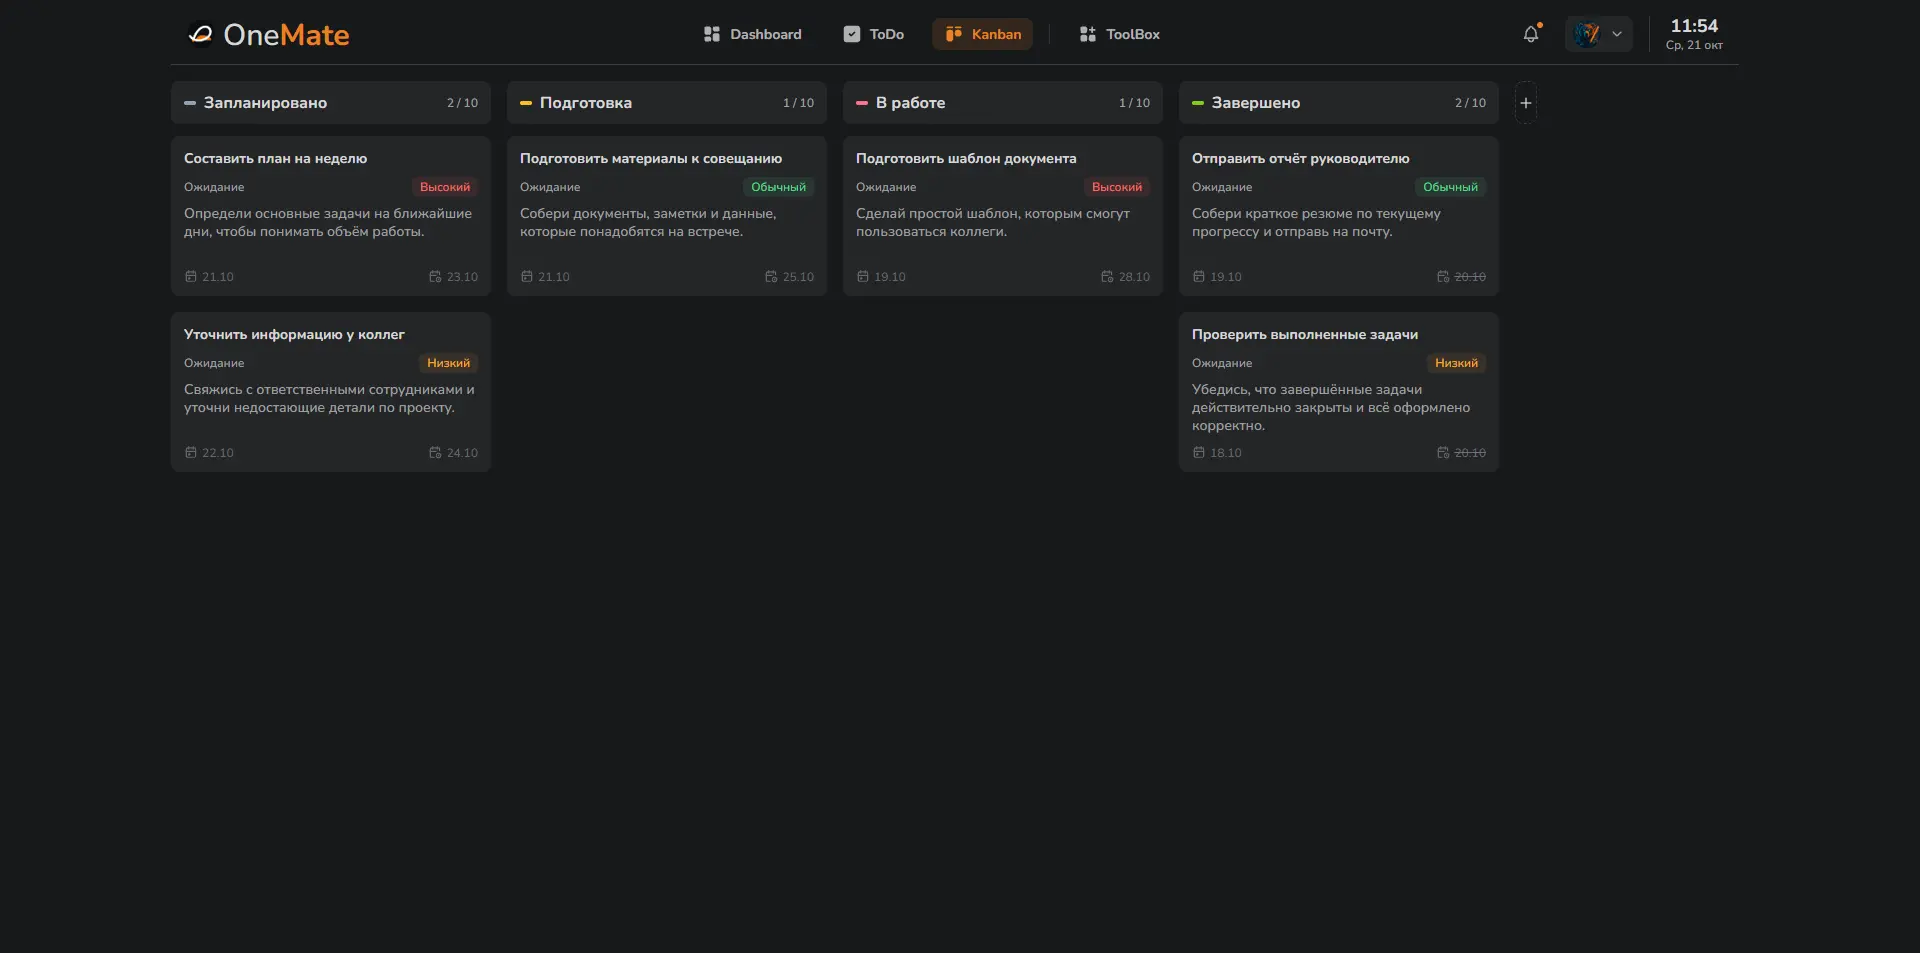
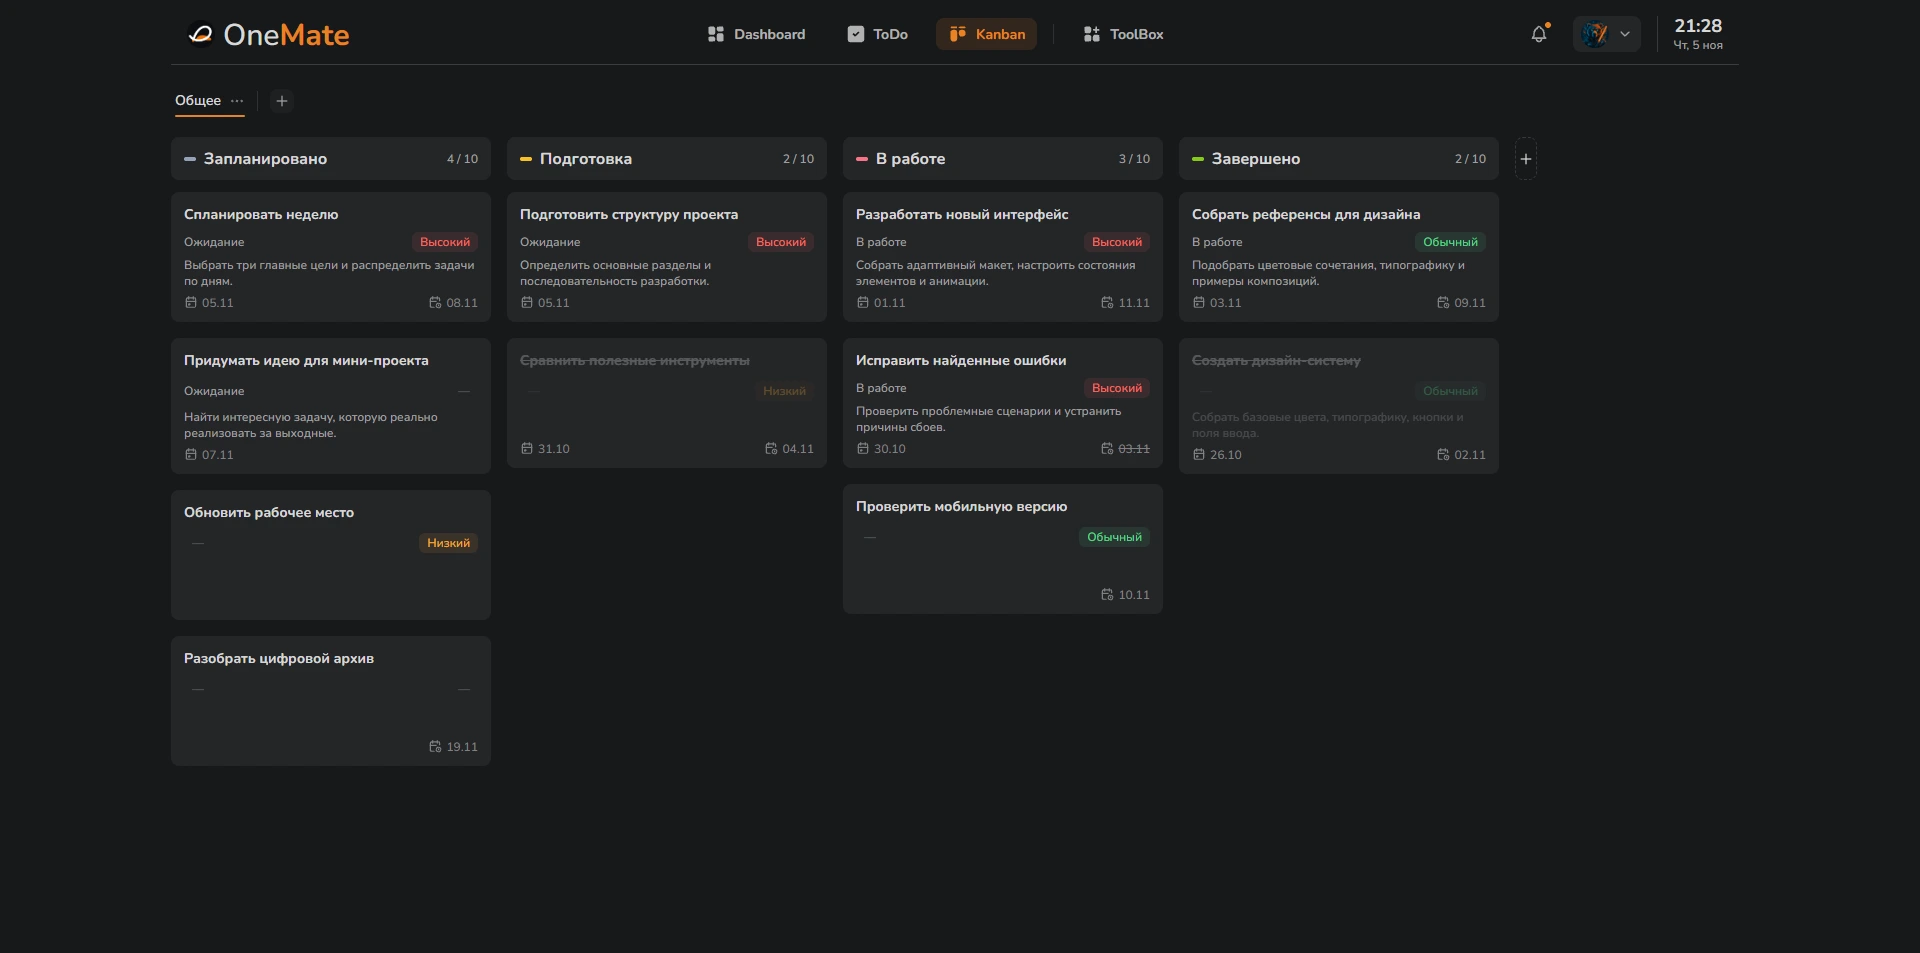
chore: update readme, app version and docs

diff --git a/client/src/widgets/cloud/model/tip.tsx b/client/src/widgets/cloud/model/tip.tsx
@@ -3,14 +3,14 @@ export const CLOUD_TIP = (
 		<p>В этом виджете можно:</p>
 		<ul className="list-disc pl-4">
 			<li>Загружать, скачивать и управлять файлами</li>
-			<li>Просматривать изображения, PDF и текстовые файлы</li>
+			<li>Просматривать изображения, PDF и TXT файлы</li>
+			<li>Искать файлы по названию</li>
 			<li>Делиться файлами по ссылке или QR-коду</li>
-			<li>Хранить текст, ссылки и заметки в облачном буфере</li>
-			<li>Создавать TXT-файлы из содержимого буфера</li>
+			<li>Хранить текст и ссылки в облачном буфере</li>
+			<li>Создавать TXT-файлы из буфера</li>
 		</ul>
 		<p className="text-(--text-disabled)">
-			Файлы можно перетаскивать, а изображения и скриншоты – вставлять через Ctrl+V. Текст сохраняется
-			автоматически, а все данные доступны на других устройствах.
+			Перетаскивайте файлы для загрузки или вставляйте изображения через Ctrl+V.
 		</p>
 	</div>
 );

diff --git a/client/src/widgets/network/model/tip.tsx b/client/src/widgets/network/model/tip.tsx
@@ -3,11 +3,11 @@ export const NETWORK_TIP = (
 		<p>В этом виджете можно:</p>
 		<ul className="list-disc pl-4">
 			<li>Отслеживать доступность сайтов и серверов</li>
-			<li>Следить за временем отклика и историей проверок</li>
 			<li>Проверять сайты, TCP-порты и SSL-сертификаты</li>
-			<li>Получать уведомления о сбоях и восстановлении сервисов</li>
-			<li>Изменять порядок сервисов</li>
+			<li>Смотреть время отклика и историю проверок</li>
+			<li>Получать уведомления о сбоях и восстановлении</li>
+			<li>Менять порядок сервисов</li>
 		</ul>
-		<p className="text-(--text-disabled)">Мониторинг автоматически проверяет сервисы каждые 15 минут.</p>
+		<p className="text-(--text-disabled)">Автоматическая проверка сервисов выполняется каждые 15 минут.</p>
 	</div>
 );

diff --git a/client/src/widgets/todo/model/tip.tsx b/client/src/widgets/todo/model/tip.tsx
@@ -2,14 +2,13 @@ export const TODO_TIP = (
 	<div className="space-y-2">
 		<p>В этом виджете можно:</p>
 		<ul className="list-disc pl-4">
-			<li>Переключаться между списками разных холстов</li>
+			<li>Выбирать списки с разных холстов</li>
 			<li>Добавлять, редактировать и удалять пункты</li>
 			<li>Отмечать выполненные дела</li>
 			<li>Отслеживать прогресс выполнения списка</li>
 		</ul>
 		<p className="text-(--text-disabled)">
-			Изменения сохраняются автоматически и доступны на других устройствах. Создавать и настраивать списки можно
-			на странице ToDo.
+			Изменения сохраняются автоматически. Настраивать холсты и списки можно на странице ToDo.
 		</p>
 	</div>
 );

diff --git a/client/src/widgets/notes/model/tip.tsx b/client/src/widgets/notes/model/tip.tsx
@@ -3,9 +3,13 @@ export const NOTES_TIP = (
 		<p>В этом виджете можно:</p>
 		<ul className="list-disc pl-4">
 			<li>Создавать и редактировать заметки</li>
+			<li>Выбирать цвет заметок</li>
+			<li>Искать заметки по тексту</li>
 			<li>Копировать и удалять заметки</li>
-			<li>Изменять порядок заметок перетаскиванием</li>
+			<li>Менять порядок перетаскиванием</li>
 		</ul>
-		<p className="text-(--text-disabled)">Перетащите заметку за значок с точками, чтобы изменить её положение.</p>
+		<p className="text-(--text-disabled)">
+			Поиск открывается кнопкой с лупой. Во время поиска перетаскивание отключено.
+		</p>
 	</div>
 );

diff --git a/client/src/widgets/calculator/model/tip.tsx b/client/src/widgets/calculator/model/tip.tsx
@@ -2,10 +2,10 @@ export const CALCULATOR_TIP = (
 	<div className="space-y-2">
 		<p>В этом виджете можно:</p>
 		<ul className="list-disc pl-4">
-			<li>Выполнять основные вычисления</li>
-			<li>Просматривать историю вычислений</li>
+			<li>Выполнять арифметические вычисления</li>
+			<li>Просматривать историю результатов</li>
 			<li>Очищать журнал вычислений</li>
 		</ul>
-		<p className="text-(--text-disabled)">Выполненные вычисления сохраняются в журнале справа.</p>
+		<p className="text-(--text-disabled)">История вычислений отображается справа от калькулятора.</p>
 	</div>
 );

diff --git a/client/src/features/toast/ui/Toast.tsx b/client/src/features/toast/ui/Toast.tsx
@@ -31,7 +31,7 @@ export const Toast = ({ toastId, type, message, options }: ToastProps) => {
 
 	return (
 		<div className={options?.className} style={options?.style} onClick={() => toast.dismiss(toastId)}>
-			<div className="core-surface flex w-fit min-w-30 items-center gap-2.5 bg-(--bg-secondary) px-3 py-2.5 shadow-[0_12px_32px_rgba(0,0,0,0.28)] transition-colors select-none not-md:w-full not-xl:mt-px hover:bg-(--bg-tertiary) md:max-w-60">
+			<div className="core-surface flex w-fit min-w-30 items-center gap-2.5 bg-(--bg-secondary) px-3 py-2.5 shadow-[0_12px_32px_rgba(0,0,0,0.28)] transition-colors select-none not-md:w-full not-xl:mt-px hover:bg-(--bg-tertiary) md:max-w-70">
 				<div className={cn('flex size-7 shrink-0 items-center justify-center rounded-md', toastStyles[type])}>
 					<Icon className="size-4.5" />
 				</div>

diff --git a/client/src/widgets/weather/model/tip.tsx b/client/src/widgets/weather/model/tip.tsx
@@ -2,8 +2,8 @@ export const WEATHER_TIP = (
 	<div className="space-y-2">
 		<p>В этом виджете можно:</p>
 		<ul className="list-disc pl-4">
-			<li>Смотреть текущую погоду и прогноз</li>
-			<li>Выбирать город или определять его автоматически</li>
+			<li>Смотреть текущую погоду и прогноз до 5 дней</li>
+			<li>Выбирать город и определять его автоматически</li>
 			<li>Узнавать скорость и направление ветра</li>
 		</ul>
 		<p className="text-(--text-disabled)">Наведите курсор на данные о ветре, чтобы увидеть его направление.</p>

diff --git a/client/src/widgets/currency/model/tip.tsx b/client/src/widgets/currency/model/tip.tsx
@@ -4,8 +4,8 @@ export const CURRENCY_TIP = (
 		<ul className="list-disc pl-4">
 			<li>Конвертировать суммы между валютами</li>
 			<li>Менять валюты местами</li>
-			<li>Копировать курс и результат конвертации</li>
+			<li>Копировать курс и результат</li>
 		</ul>
-		<p className="text-(--text-disabled)">Нажмите на курс или результат, чтобы скопировать его.</p>
+		<p className="text-(--text-disabled)">Нажмите на курс или результат, чтобы скопировать значение.</p>
 	</div>
 );

diff --git a/client/src/widgets/calendar/model/tip.tsx b/client/src/widgets/calendar/model/tip.tsx
@@ -3,7 +3,7 @@ export const CALENDAR_TIP = (
 		<p>В этом виджете можно:</p>
 		<ul className="list-disc pl-4">
 			<li>Выбирать период и подсчитывать количество дней</li>
-			<li>Учитывать или исключать выходные из расчёта</li>
+			<li>Учитывать или исключать выходные</li>
 			<li>Копировать выбранный период</li>
 		</ul>
 		<p className="text-(--text-disabled)">Сначала выберите начальную дату, затем конечную.</p>

diff --git a/client/src/entities/user-profile/model/defaults.ts b/client/src/entities/user-profile/model/defaults.ts
@@ -5,7 +5,7 @@ import type { UserProfile } from '.';
 const clone = <T>(v: T): T =>
 	typeof structuredClone === 'function' ? structuredClone(v) : JSON.parse(JSON.stringify(v));
 
-const DEFAULT_WIDGETS = ['cloud', 'calendar', 'notes', 'currency', 'weather', 'translator'] as const;
+const DEFAULT_WIDGETS = ['cloud', 'calendar', 'notes', 'currency', 'weather', 'todo'] as const;
 export const createDefaultWidgets = (): WidgetId[] => [...DEFAULT_WIDGETS];
 
 const DEFAULT_SLOTS = ['calendar', 'weather', 'currency', 'notes'] as const;

diff --git a/README.md b/README.md
@@ -5,7 +5,7 @@
 [![Vite](https://img.shields.io/badge/Vite-8.x-646CFF)](#технологический-стек)
 [![Laravel](https://img.shields.io/badge/Laravel-13-FF2D20)](#технологический-стек)
 [![PostgreSQL](https://img.shields.io/badge/PostgreSQL-16-4169E1)](#технологический-стек)
-[![Version](https://img.shields.io/badge/version-2.2.2-e98224)](#)
+[![Version](https://img.shields.io/badge/version-2.2.5-e98224)](#)
 
 <div align="center">
 
@@ -22,19 +22,20 @@
 </p>
 
 <div align="center">
-  <img src="./docs/screenshots/dashboard.webp" alt="Dashboard" width="800">
+  <img src="./docs/screenshots/home.webp" alt="Home" width="800">
 </div>
 
 ## Модули
 
 ### Dashboard
 
-**Настраиваемый рабочий стол** с шестью виджетами на выбор. Поддерживает добавление инструментов из каталога и изменение их расположения с помощью drag & drop.
+**Настраиваемый рабочий стол** с возможностью размещения до шести виджетов одновременно. Поддерживает добавление инструментов из каталога и изменение их расположения с помощью drag & drop.
 
 Доступные виджеты:
 
 - **Облако** – хранение и предпросмотр файлов, публичные ссылки и облачный буфер обмена;
-- **Заметки** – создание, редактирование и сортировка заметок;
+- **Заметки** – создание, редактирование, поиск и сортировка заметок;
+- **Задачи** – управление пунктами списков с разных холстов и отслеживание прогресса;
 - **Календарь** – выбор периодов, подсчёт дней и копирование результатов;
 - **Калькулятор** – арифметические операции и история вычислений;
 - **Конвертер валют** – конвертация сумм и копирование курсов и результатов;
@@ -44,21 +45,22 @@
 
 ### Kanban
 
-**Интерактивные доски** для планирования и управления задачами, позволяющие организовывать рабочие процессы с помощью настраиваемых колонок, приоритетов и сроков выполнения.
+**Интерактивные доски** для планирования и управления задачами с настраиваемыми колонками, приоритетами и сроками выполнения.
 
-- создание и управление несколькими досками, настройка задач и колонок;
-- сортировка и перемещение задач и колонок с помощью drag & drop;
+- создание и управление несколькими досками;
+- добавление и настройка задач и колонок;
+- перемещение задач и колонок с помощью drag & drop;
 - управление приоритетами, статусами и сроками выполнения;
-- уведомления о просроченных задачах.
+- уведомления о предстоящих и просроченных задачах.
 
 ### ToDo
 
-**Интерактивная сетка списков** для организации повседневных дел и детализации задач с возможностью размещения списков на отдельных холстах.
+**Интерактивная сетка списков** для организации повседневных дел и детализации задач на отдельных холстах.
 
-- создание и настройка списков с возможностью выбора цвета;
-- организация списков на нескольких холстах с настраиваемым расположением;
-- сортировка и перенос списков и пунктов с помощью drag & drop;
-- добавление, редактирование и отметка выполненных пунктов.
+- создание и управление несколькими холстами;
+- добавление, редактирование и настройка списков с выбором цвета;
+- размещение списков в сетке и перенос пунктов с помощью drag & drop;
+- отметка выполненных пунктов и отслеживание прогресса.
 
 ## Технологический стек
 
@@ -97,9 +99,9 @@
 <details>
 <summary>Показать</summary>
 <p align="center">
-  <img src="./docs/screenshots/home.webp" alt="Главная страница" width="800">
+  <img src="./docs/screenshots/dashboard.webp" alt="Dashboard" width="800">
+  <img src="./docs/screenshots/todo.webp" alt="ToDo" width="800">
   <img src="./docs/screenshots/kanban.webp" alt="Kanban" width="800">
-  <img src="./docs/screenshots/settings.webp" alt="Настройки" width="800">
 </p>
 
 </details>
